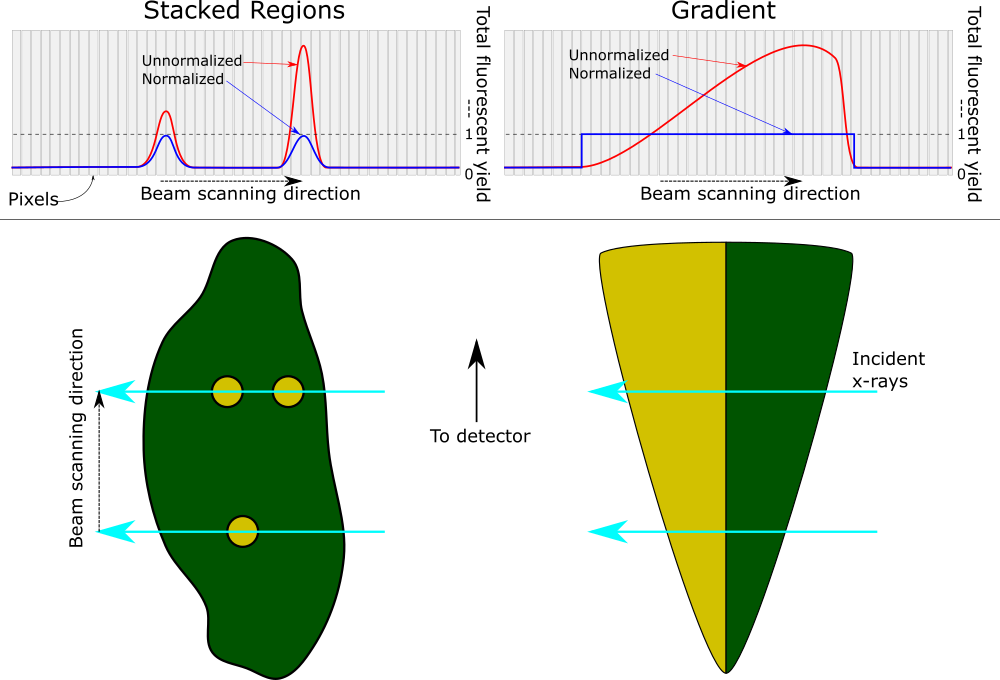
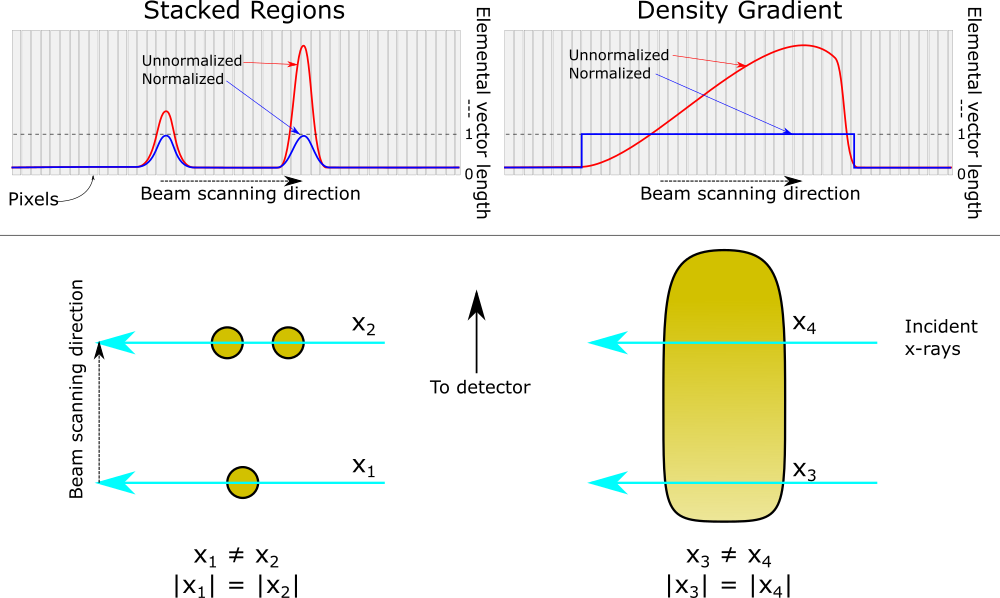
Changed why vMF slide figure.

Changed region(s): [[0.0, 0.0, 1.0, 1.0], [0.434, 0.6321, 0.527, 0.6622], [0.465, 0.4816, 0.496, 0.5418]]

diff --git a/vMF.tex b/vMF.tex
@@ -27,12 +27,22 @@
 \keywords{von Mises-Fisher, clustering, bionanoprobe}
 \begin{document}
 
+%page 1
 \begin{frame}[plain]
 \maketitle
 \end{frame}
 
 \section[Short Section 1 Name]{Full Section 1 Name}
 \subsection[Short Subsection 1 Name]{Full Subsection 1 Name}
+
+%page 2
+\begin{frame}{Why cluster XRF data?}
+    \begin{itemize}
+        \item XRF gives high resolution data of element distributions in a sample.
+        \item However, finding regions of similar composition is left largely to be done by hand.
+        \item Clustering XRF data by element composition allows for automated segmentation of  images into similar regions. It also enables statistical analysis to be done within and between clustered regions as well as comparison of clustered regions between cells.
+    \end{itemize}
+\end{frame}
 
 % page 3
 \subsection[movMF image]{Mixture of vMF distributions on the 3-sphere}
@@ -44,8 +54,8 @@
 \end{figure}
 \end{frame}
 
-% page 2
-\begin{frame}{von Mises Fisher distributions}%{Subtitle}
+% page 4
+\begin{frame}{von Mises Fisher (vMF) distributions}%{Subtitle}
 Random vector $\boldsymbol{x}$ has a $d$-variate von Mises-Fisher (vMF) distribution if its probability density function is given by:
 $$f(\boldsymbol{x}|\boldsymbol{\mu}, \kappa) = c_d(\kappa)e^{\kappa\boldsymbol{\mu}^T\mathbf{x}}$$
 \begin{itemize}
@@ -63,17 +73,41 @@ $$f(\boldsymbol{x}|\boldsymbol{\mu}, \kappa) = c_d(\kappa)e^{\kappa\boldsymbol{\
 \end{itemize}
 \end{frame}
 
-%page 8
+%page 5
+\begin{frame}{Normalizing XRF data.}
+\centering
+\begin{table}[]
+\resizebox{\textwidth}{!}{\begin{tabular}{l|lllllll|l}
+         & P        & S        & K        & Ca       & Cl       & Fe       & Zn       & L2-norm  \\ \hline
+$\boldsymbol{x}$        & 0.1216 & 0.0748 & 0.5959 & 0.0054 & 0.2011 & 0.0038 & 0.0031 & 0.6450 \\
+$|\boldsymbol{x}|$ & 0.1886 & 0.1160 & 0.9239 & 0.0084 & 0.3117 & 0.0060 & 0.0048 & 1        \\       
+\end{tabular}}
+\end{table}
+\begin{itemize}
+    \item Here is an example of normalizing XRF data. 
+    \item $\boldsymbol{x}$ is unnormalized and corresponds to $\mu g / cm^2$. The L2-norm corresponds to the length of the 7D vector with (P, S, K,...) as its components.
+    \item $|\boldsymbol{x}|$ is the normalized vector with vector length = 1. Here each component value can be thought of the fractional value of that element in that pixel.
+\end{itemize}
+\end{frame}
+
+%page 6
 \begin{frame}{Why vMF not Gaussians?}
 \begin{figure}[h]
   \includegraphics[width=1\textwidth,height=.5\textheight,keepaspectratio]{Normalization.png}
-  \caption{In a 2D XRF projection increasing brightness may be due to overlapping regions or regions with higher concentration making it difficult to discern between the two. Because of this I chose to normalize the data and cluster only based on element composition, not concentration.}
+  \caption{In a 2D XRF projection increasing brightness may be due to overlapping regions or regions with higher concentration making it difficult to discern between the two. vMF normalizes each pixel such that the length of its elemental vector (2-norm) is 1. The result is clusters based on element composition, not concentration.}
 \end{figure}
 \end{frame}
 
-%page 4
-\subsection[Short Subsection 3 Name]{Full Subsection 3 Name}
+%page 7
+\begin{frame}{Our data and goals.}
+    \begin{itemize}
+        \item We took XRF images of frozen hydrated mouse fibroblast cells as varying stages of mitosis.
+        \item The goal is to determine the location and role of trace metals in the cell during mitosis. [cite]
+        \item Clustering allows one to separate out regions of the cell (i.e. the nucleus) for independent analysis. It also helps in analyzing these regions.
+    \end{itemize}
+\end{frame}
 
+%page 8
 \begin{frame}{Bionanoprobe Data.}
 \begin{figure}[h]
   \includegraphics[width=1\textwidth,height=.7\textheight,keepaspectratio]{unmasked.png}
@@ -82,6 +116,7 @@ $$f(\boldsymbol{x}|\boldsymbol{\mu}, \kappa) = c_d(\kappa)e^{\kappa\boldsymbol{\
 \end{figure}
 \end{frame}
 
+%page 9
 \begin{frame}{Masked Bionanoprobe Data.}
 \begin{figure}[h]
   \includegraphics[width=1\textwidth,height=.7\textheight,keepaspectratio]{masked.png}
@@ -90,8 +125,8 @@ $$f(\boldsymbol{x}|\boldsymbol{\mu}, \kappa) = c_d(\kappa)e^{\kappa\boldsymbol{\
 \end{figure}
 \end{frame}
 
-%page 5
-\begin{frame}{Prepossessing BNP data}
+%page 10
+\begin{frame}{Before clustering! Prepossessing BNP data}
 For BNP data each pixel is its own d-dimensional elemental concentration vector, 
 $$\boldsymbol{X_p} = (X_1, X_2, ..., X_d).$$
 Each component, $X_i$, is that elements concentration for a given pixel and has units $\mu g/cm^2$. 
@@ -102,20 +137,23 @@ Each component, $X_i$, is that elements concentration for a given pixel and has 
     
 \end{frame}
 
-\begin{frame}{Pandas}
-    \includegraphics[width=1\textwidth,height=.7\textheight,keepaspectratio]{dataframe.PNG}
-    \caption{Multiindex Pandas dataframe for storing data and labels.}
-\end{frame}
-
-%page 6
+%page 11
 \begin{frame}{3-D projections of 7-D data.}
 \begin{figure}[h]
   \includegraphics[width=1\textwidth,height=1\textheight,keepaspectratio]{7dto3d.png}
-  \caption{XRF images of mouse fibroblasts.}
+  \caption{XRF images of mouse fibroblasts color coded by dataset.}
 \end{figure}
 \end{frame}
 
-%page 7
+%page 12
+\begin{frame}{Pandas dataframe for XRF clustering}
+\begin{figure}
+    \includegraphics[width=1\textwidth,height=.7\textheight,keepaspectratio]{dataframe.PNG}
+    \caption{Multiindex Pandas dataframe for storing data and labels. In this case a 7D (1 dimension per element) dataset.}
+\end{figure}
+\end{frame}
+
+%page 13
 \begin{frame}{Results and why to preprocess data.}
 \begin{figure}[h]
   \includegraphics[width=1\textwidth,height=.7\textheight,keepaspectratio]{labels_compare_preprocessing.png}
@@ -123,12 +161,15 @@ Each component, $X_i$, is that elements concentration for a given pixel and has 
 \end{figure}
 \end{frame}
 
+%page  14
 \begin{frame}{Pandas results.}
+\begin{figure}
     \includegraphics[width=1\textwidth,height=.7\textheight,keepaspectratio]{dataframe_labeled.PNG}
     \caption{Dataframe with labels and membership.}
+\end{figure}
 \end{frame}
 
-%page 9
+%page 15
 \begin{frame}{Cluster statistics: Median.}
 \begin{figure}[h]
   \includegraphics[width=1\textwidth,height=.5\textheight,keepaspectratio]{Cluster_median.png}
@@ -144,6 +185,7 @@ Each component, $X_i$, is that elements concentration for a given pixel and has 
 \end{itemize}
 \end{frame}
 
+%page 16
 \begin{frame}{Cluster statistics: Correlation.}
 \begin{figure}
     \centering
@@ -153,16 +195,21 @@ Each component, $X_i$, is that elements concentration for a given pixel and has 
 \end{figure}
 \end{frame}
 
+%page 17
 \begin{frame}{Warning: construction ahead.}
-    Everything beyond this point is a work in progress.
+\centering
+\begin{figure}
+\includegraphics[width=1\textwidth,height=.5\textheight,keepaspectratio]{construction.png}
+\caption{I'm still working on the slides beyond this point.}
+\end{figure}
 \end{frame}
 
-%page 10
+%page 18
 \begin{frame}{Extension to 3 spatial dimensions.}
 From the perspective of vMF clustering the extension from 2D to 3D is trivial. Each pixel is represented as a vector independent of its location in the dataset. Therefore the clustering algorithm does not care how many spatial dimensions exist. Some clustering algorithms (SLIC) include proximity as a constraint and need to be fed pixel/voxel indicies, but this has been done.
 \end{frame}
 
-%page 11
+%page 19
 \begin{frame}{Other clustering methods to look into.}
 \begin{itemize}
     \item Simple Linear Iterative Clustering (SLIC)
@@ -175,7 +222,7 @@ From the perspective of vMF clustering the extension from 2D to 3D is trivial. E
 \end{itemize}
 \end{frame}
 
-%page 12
+%page 20
 \begin{frame}{Future.}
 \begin{itemize}
     \item Clusters to polygons. This would be especially useful for 3d clustering visualization for viewing embedded organelles, or for importing geometries with material properties into CAD software (for mechanical or semiconductor samples).
@@ -186,10 +233,11 @@ From the perspective of vMF clustering the extension from 2D to 3D is trivial. E
 
 
 \section{\bibname}
+%page 21
 \begin{frame}[t, allowframebreaks]{\bibname}
 \printbibliography[heading=none]
 \end{frame}
-
+%page 22
 \begin{frame}[plain]
 \vfill
 \centerline{Thank You for Your Attention!}
